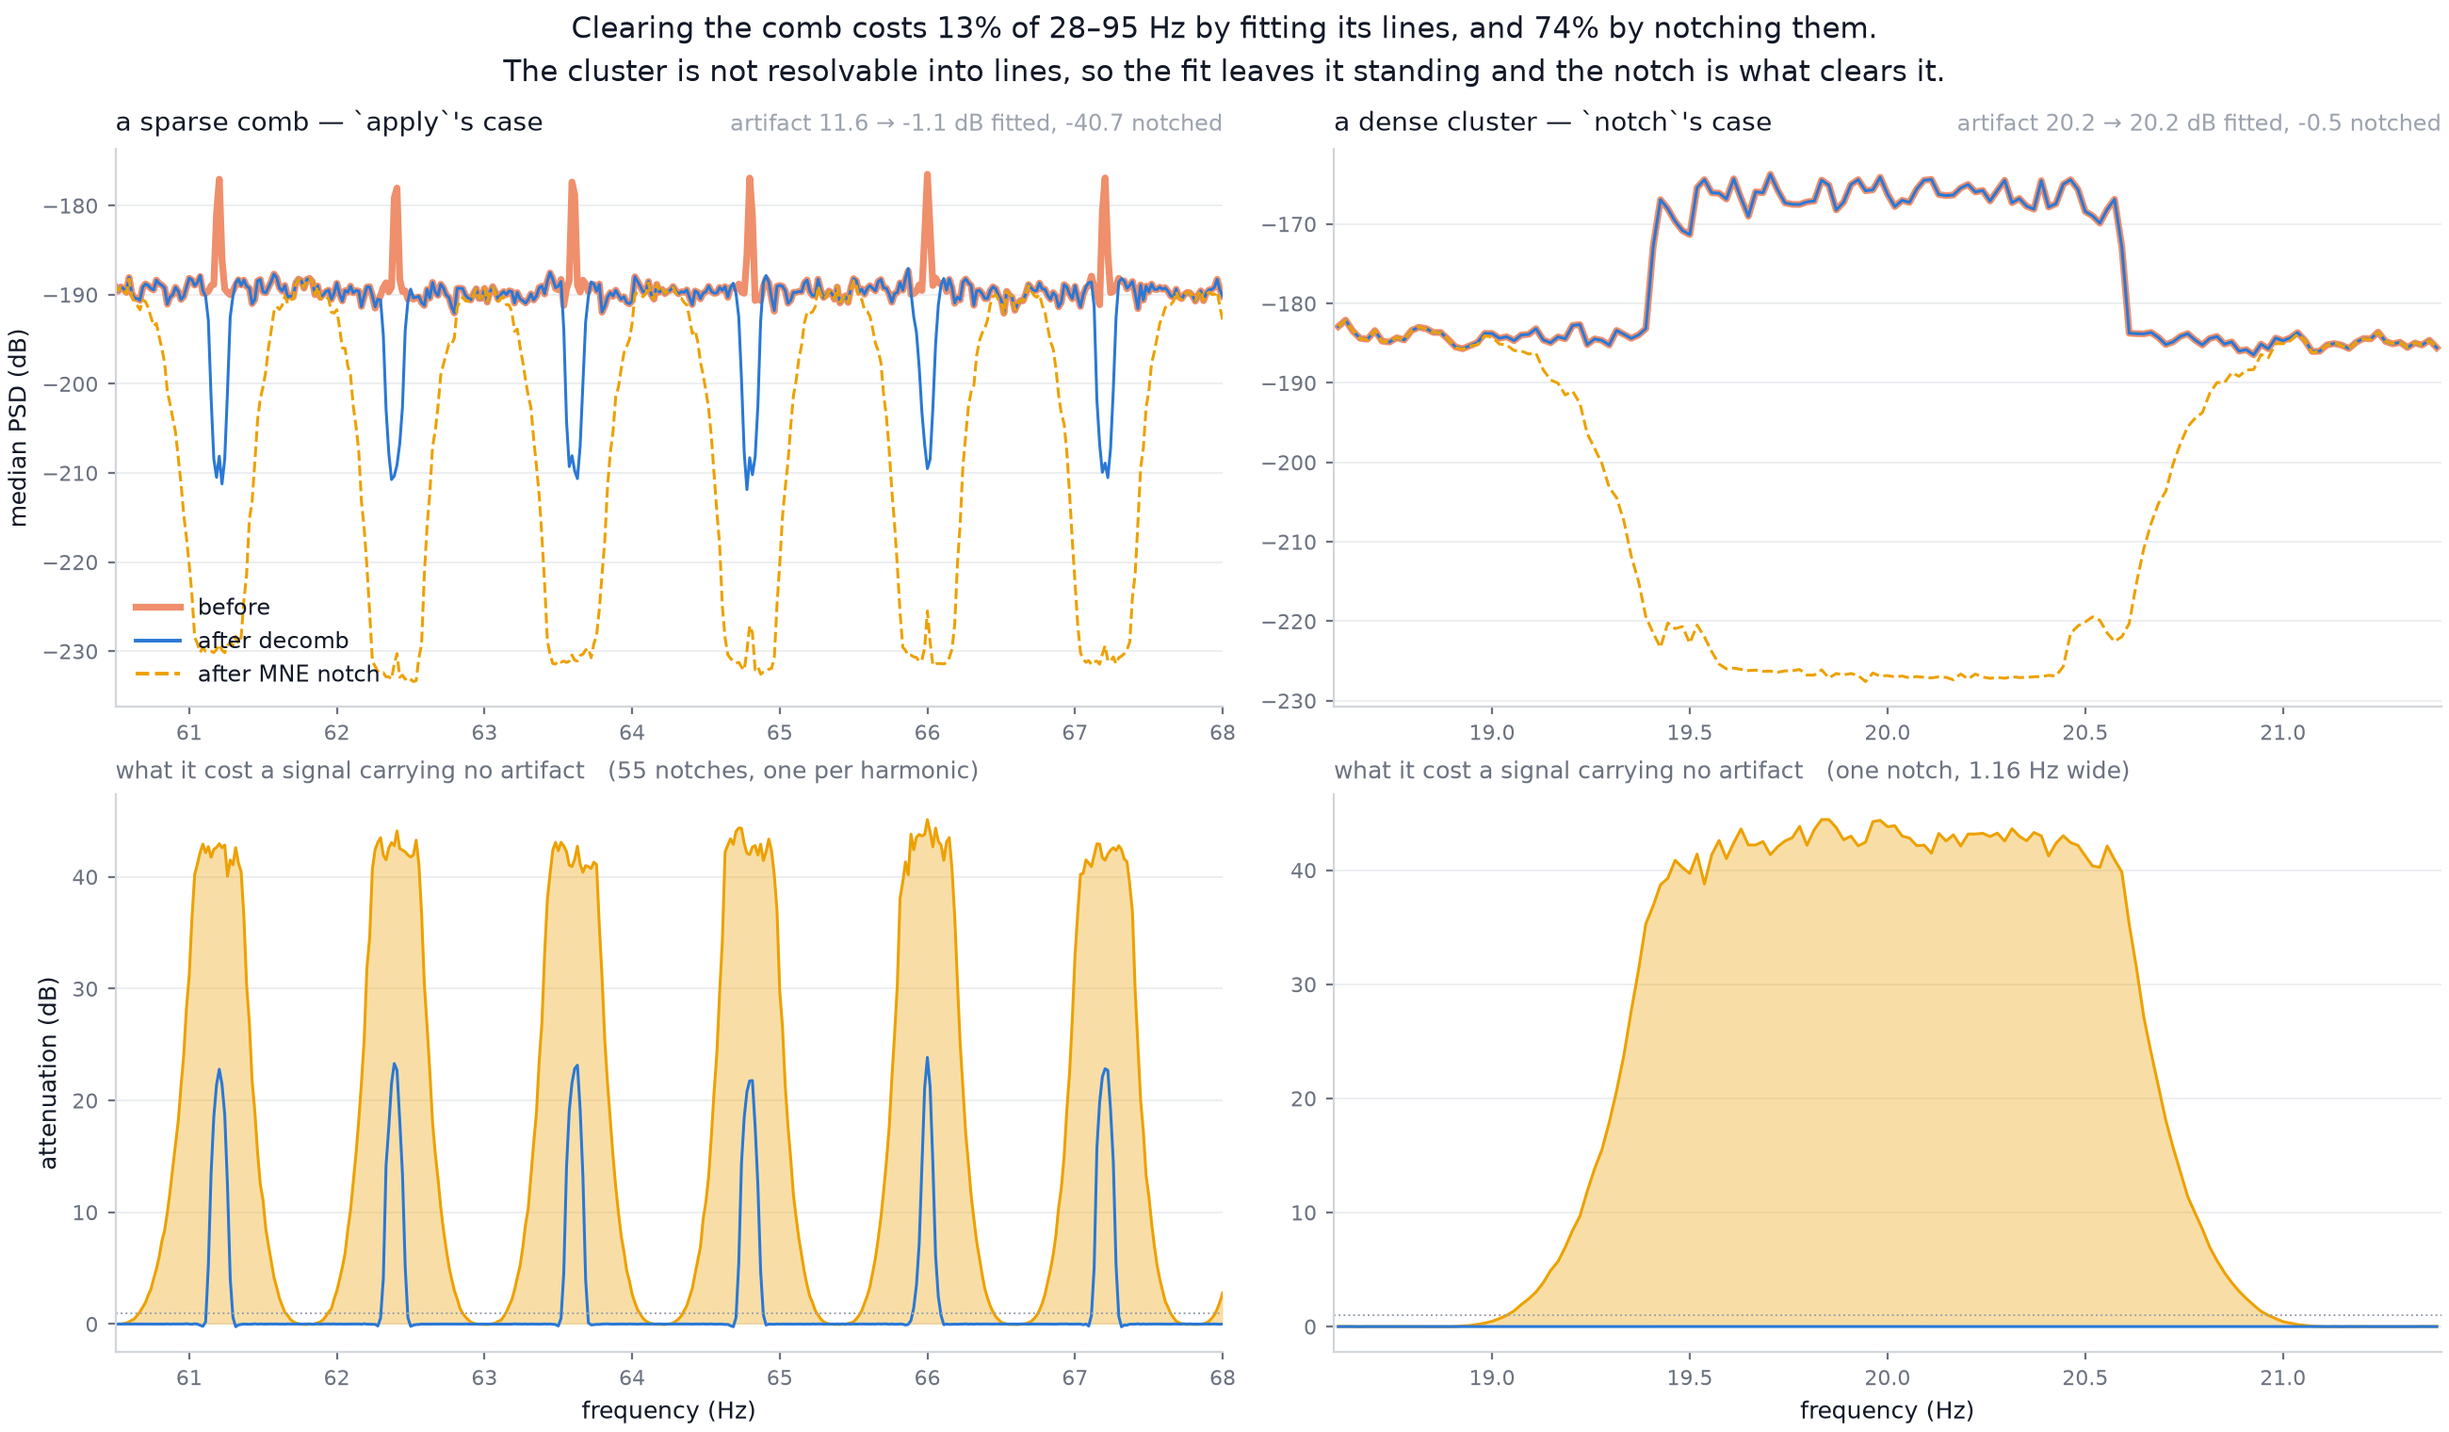
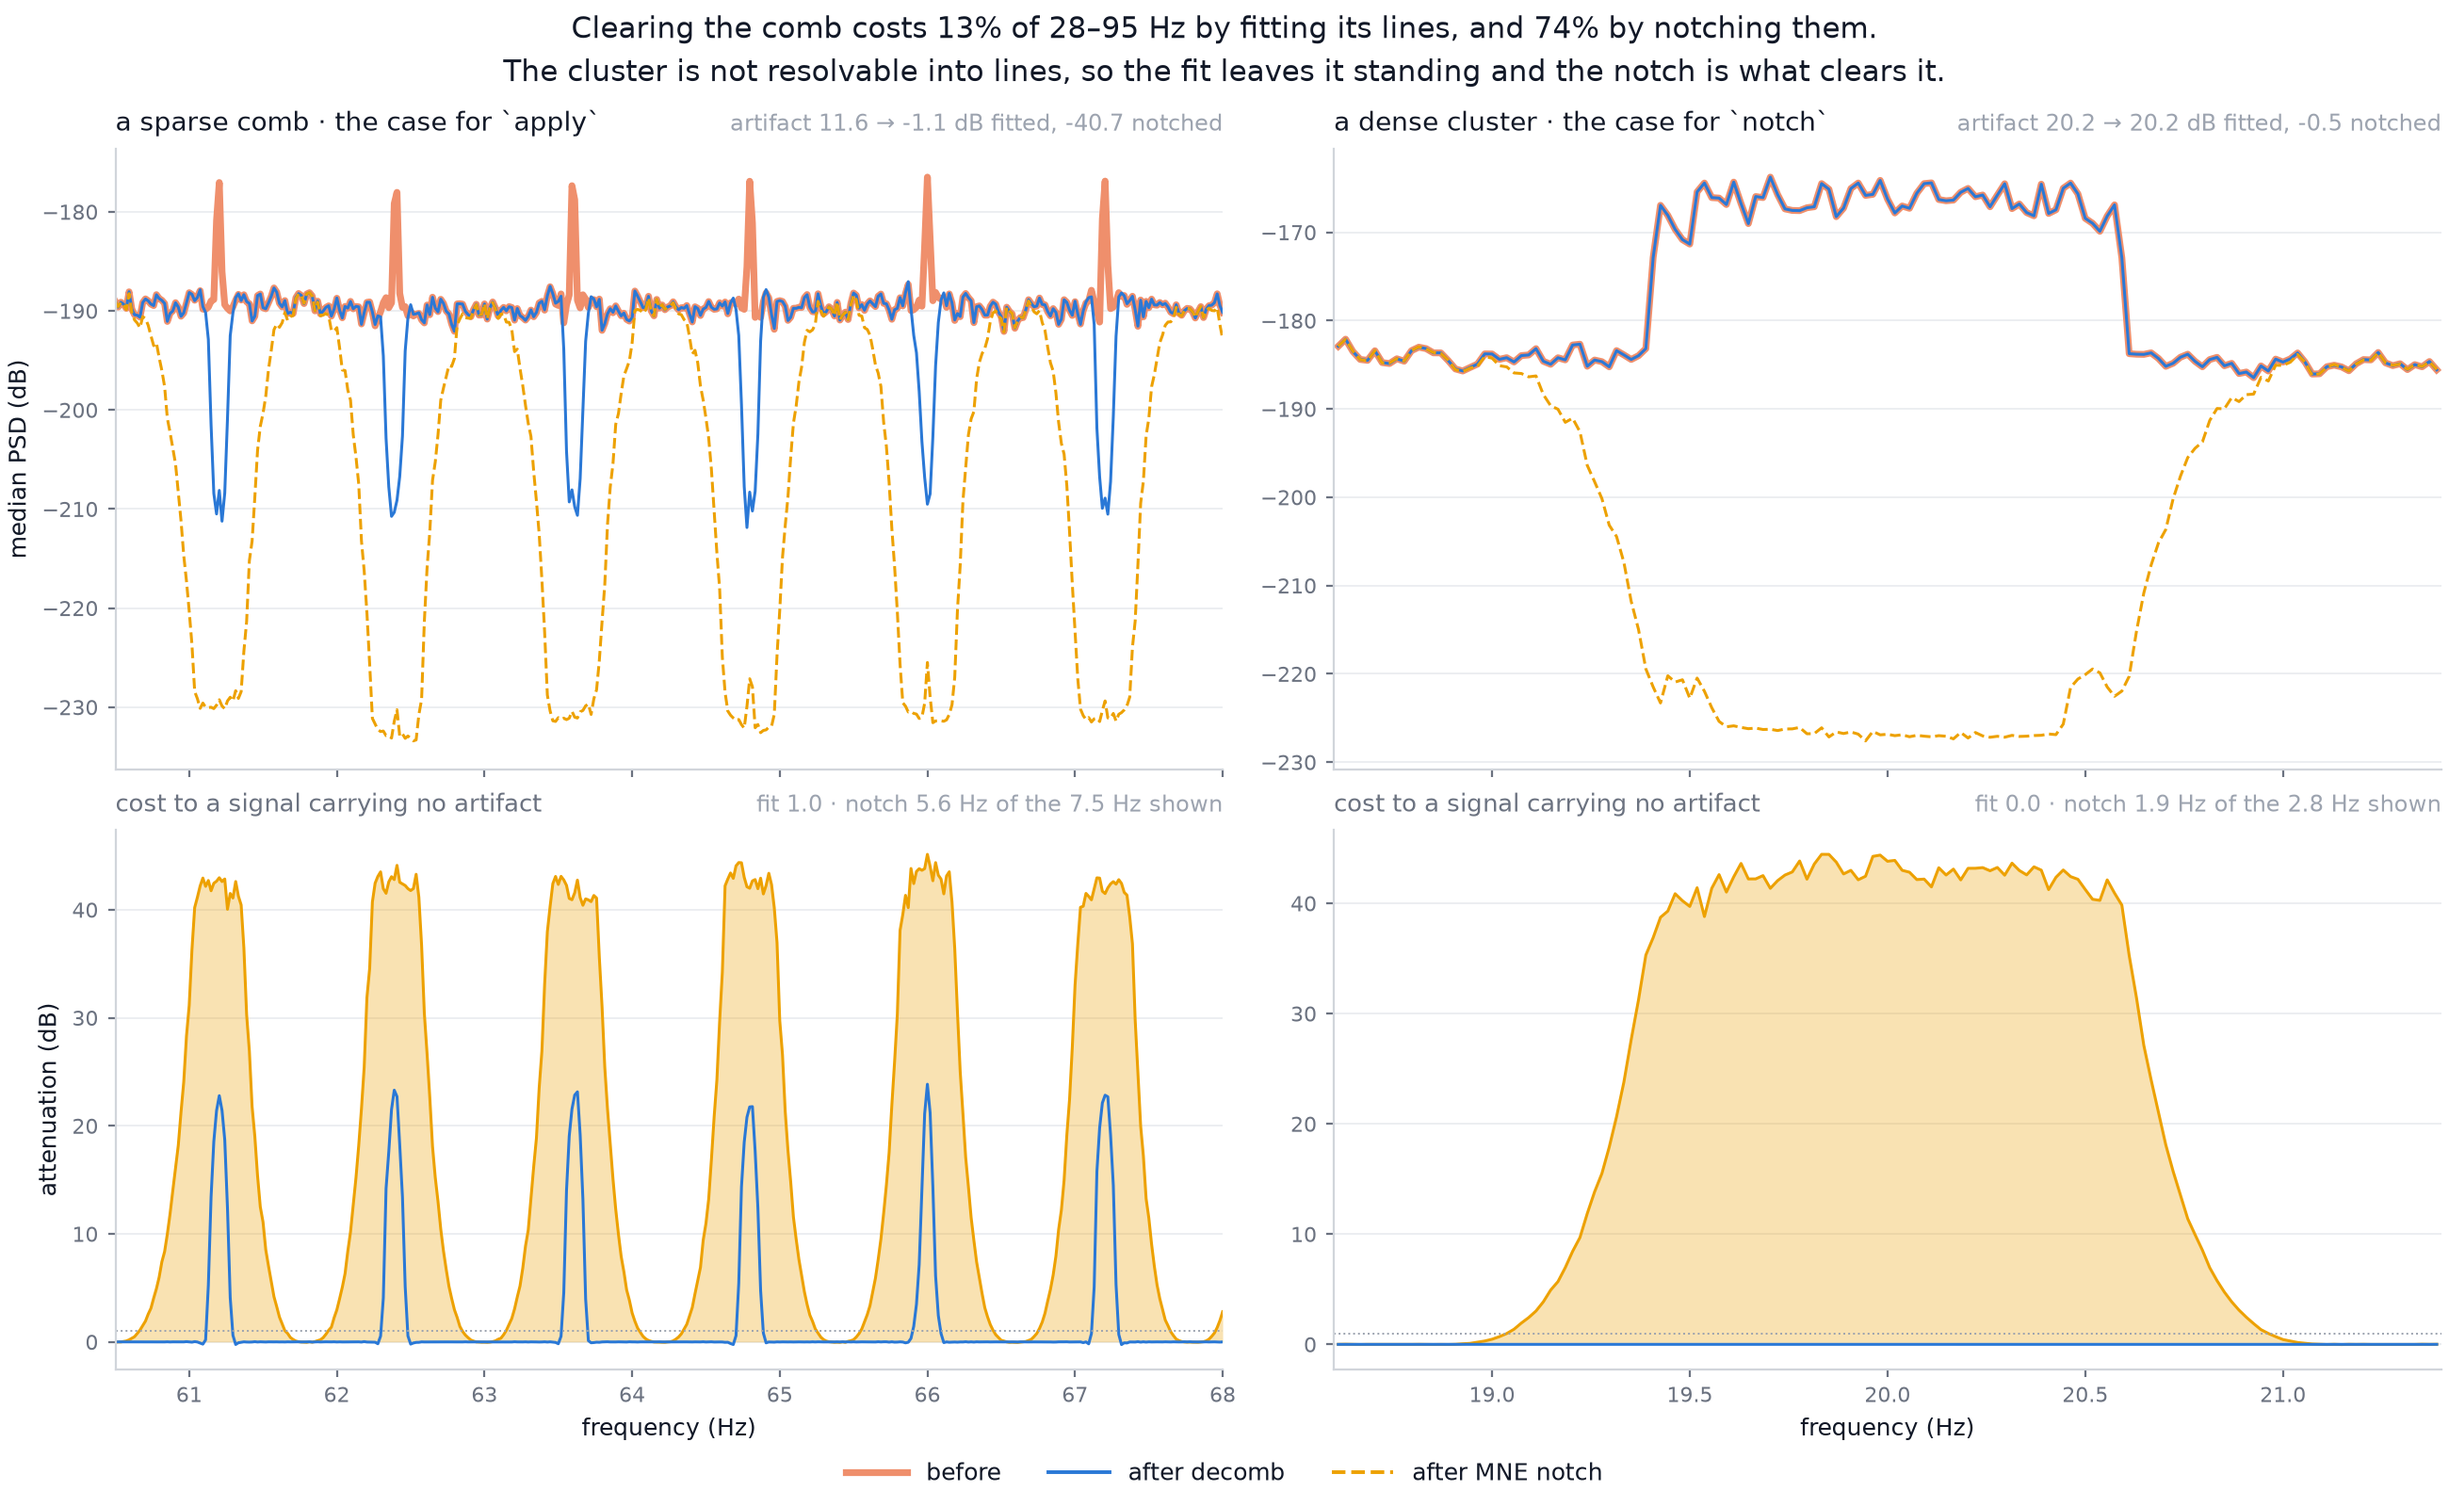
Clean up the comparison figure's layout
The legend sat inside the upper-left panel, on top of the notch trace it was naming --
every corner of those panels holds either a comb peak or the notch's floor, so it moves
outside the axes entirely.

The lower panels quoted the whole-band cost, which was wrong beside the cluster: the
8.9 Hz the fit spends is spent on the comb, two bands away, and quoting it there
credited the cluster column with spectrum it never touched. Each panel now states the
cost over the span it draws, which is also the more vivid number -- the notch takes 5.6
of the 7.5 Hz shown against the fit's 1.0.

Columns share an x axis, so the tick labels appear once and the two rows read as one
picture. The notch counts move to the README, where there is room for them.

diff --git a/docs/make_notch_figure.py b/docs/make_notch_figure.py
@@ -263,16 +263,23 @@ def band_share(measured, key, threshold_db=1.0):
     return float(np.mean(attenuation_db(measured, key)[inside] > threshold_db))
 
 
-def cost_hz(measured, key, threshold_db=1.0):
-    """Spectrum a transform took, in hertz, wherever it took it.
+def cost_hz(measured, key, threshold_db=1.0, view=None):
+    """Spectrum a transform took, in hertz, over `view` or over the whole analysed range.
 
     A share of `cost_band_hz` is the number `benchmark` reports, and it is the wrong one for
     a transform aimed outside that band: the cluster sits at 20 Hz, so notching it costs
     0.000 of 28-95 Hz while plainly costing something. Hertz is comparable everywhere.
+
+    `view` exists so a panel can state its own number. The removal spends most of its cost on
+    the comb, and quoting that total beside the cluster would credit the cluster column with
+    spectrum spent two bands away.
     """
     freqs = measured["freqs"]
     spacing = float(freqs[1] - freqs[0])
-    return float(np.sum(attenuation_db(measured, key) > threshold_db) * spacing)
+    taken = attenuation_db(measured, key) > threshold_db
+    if view is not None:
+        taken = taken & (freqs >= view[0]) & (freqs <= view[1])
+    return float(np.sum(taken) * spacing)
 
 
 def peak_over_background(measured, key, centre_hz, reach_hz):
@@ -288,32 +295,35 @@ def draw(measured, path: Path) -> None:
     from decomb.spectral import to_db
 
     freqs = measured["freqs"]
-    figure, axes = plt.subplots(2, 2, figsize=(13.0, 7.6), layout="constrained")
+    figure, axes = plt.subplots(
+        2,
+        2,
+        figsize=(13.0, 8.0),
+        layout="constrained",
+        sharex="col",
+        height_ratios=(1.15, 1.0),
+    )
 
     columns = (
         (
-            "a sparse comb — `apply`'s case",
+            "a sparse comb · the case for `apply`",
             COMB_VIEW_HZ,
             "decomb",
             "notch_comb",
             "probe_decomb",
             "probe_notch_comb",
-            f"{len(notch_frequencies())} notches, one per harmonic",
         ),
         (
-            "a dense cluster — `notch`'s case",
+            "a dense cluster · the case for `notch`",
             CLUSTER_VIEW_HZ,
             "decomb",
             "notch_cluster",
             "probe_decomb",
             "probe_notch_cluster",
-            f"one notch, {CLUSTER_SPAN_HZ + 2 * CLUSTER_WANDER_HZ:g} Hz wide",
         ),
     )
 
-    for column, (title, view, decomb_key, notch_key, cost_decomb, cost_notch, note) in enumerate(
-        columns
-    ):
+    for column, (title, view, decomb_key, notch_key, cost_decomb, cost_notch) in enumerate(columns):
         inside = (freqs >= view[0]) & (freqs <= view[1])
 
         top = axes[0][column]
@@ -341,7 +351,7 @@ def draw(measured, path: Path) -> None:
             0.0,
             attenuation_db(measured, cost_notch)[inside],
             color=NOTCH_COLOR,
-            alpha=0.35,
+            alpha=0.30,
             lw=0,
         )
         bottom.plot(
@@ -352,11 +362,20 @@ def draw(measured, path: Path) -> None:
         )
         bottom.axhline(1.0, color=FAINT_INK, lw=0.7, ls=":")
         bottom.set_title(
-            f"what it cost a signal carrying no artifact   ({note})",
+            "cost to a signal carrying no artifact",
             loc="left",
-            fontsize=9,
+            fontsize=9.5,
             color=MUTED_INK,
             pad=6,
+        )
+        bottom.set_title(
+            f"fit {cost_hz(measured, cost_decomb, view=view):.1f} · notch "
+            f"{cost_hz(measured, cost_notch, view=view):.1f} Hz of the "
+            f"{view[1] - view[0]:.1f} Hz shown",
+            loc="right",
+            fontsize=8.5,
+            color=FAINT_INK,
+            pad=7,
         )
         bottom.set_ylabel("attenuation (dB)" if column == 0 else "", fontsize=9, color=TITLE_INK)
         bottom.set_xlabel("frequency (Hz)", fontsize=9, color=TITLE_INK)
@@ -370,16 +389,20 @@ def draw(measured, path: Path) -> None:
                 spine.set_visible(side in ("left", "bottom"))
                 spine.set_color(AXIS_INK)
 
-    axes[0][0].legend(
+    # Outside the axes on purpose. Every corner of the upper panels holds either a comb
+    # peak or the notch's floor, so a legend placed inside one sits on the data it names.
+    figure.legend(
         handles=[
             plt.Line2D([], [], color=BEFORE_COLOR, lw=2.6, label="before"),
             plt.Line2D([], [], color=AFTER_COLOR, lw=1.4, label="after decomb"),
             plt.Line2D([], [], color=NOTCH_COLOR, lw=1.4, ls="--", label="after MNE notch"),
         ],
-        loc="lower left",
+        loc="outside lower center",
+        ncols=3,
         frameon=False,
-        fontsize=8.5,
+        fontsize=9,
         labelcolor=TITLE_INK,
+        handlelength=2.6,
     )
     decomb_share = band_share(measured, "probe_decomb")
     notch_share = band_share(measured, "probe_notch_comb")

diff --git a/README.md b/README.md
@@ -124,10 +124,12 @@ into 1 Hz at 20 Hz. Each column is put through the line-removal pass and through
 
 The lower row is the measurement the prose claims. A broadband recording carrying no
 artifact at all is put through each transform, so the attenuation plotted is what a signal
-loses rather than what an artifact loses. Clearing the comb costs 8.9 Hz of spectrum by
-fitting its lines and 50.0 Hz by notching them, or 13% against 74% of the 28--95 Hz cost
-band. The notch removes the comb further -- to 40.7 dB below background against the fit's
-1.1 dB -- and the difference in cost is what that buys.
+loses rather than what an artifact loses. Clearing the comb takes 55 notches, one per
+harmonic, against the same 55 fitted targets: 8.9 Hz of spectrum by fitting them and 50.0 Hz
+by notching them, or 13% against 74% of the 28--95 Hz cost band. Each panel states the cost
+over the span it draws rather than the whole band, so its numbers match its own picture. The
+notch removes the comb further -- to 40.7 dB below background against the fit's 1.1 dB -- and
+the difference in cost is what that buys.
 
 The cluster reverses it. Its peaks wander, so detection resolves 18 peaks over 3 dB where 12
 were planted and classifies only 8 as lines; the fit leaves the cluster exactly as it found
